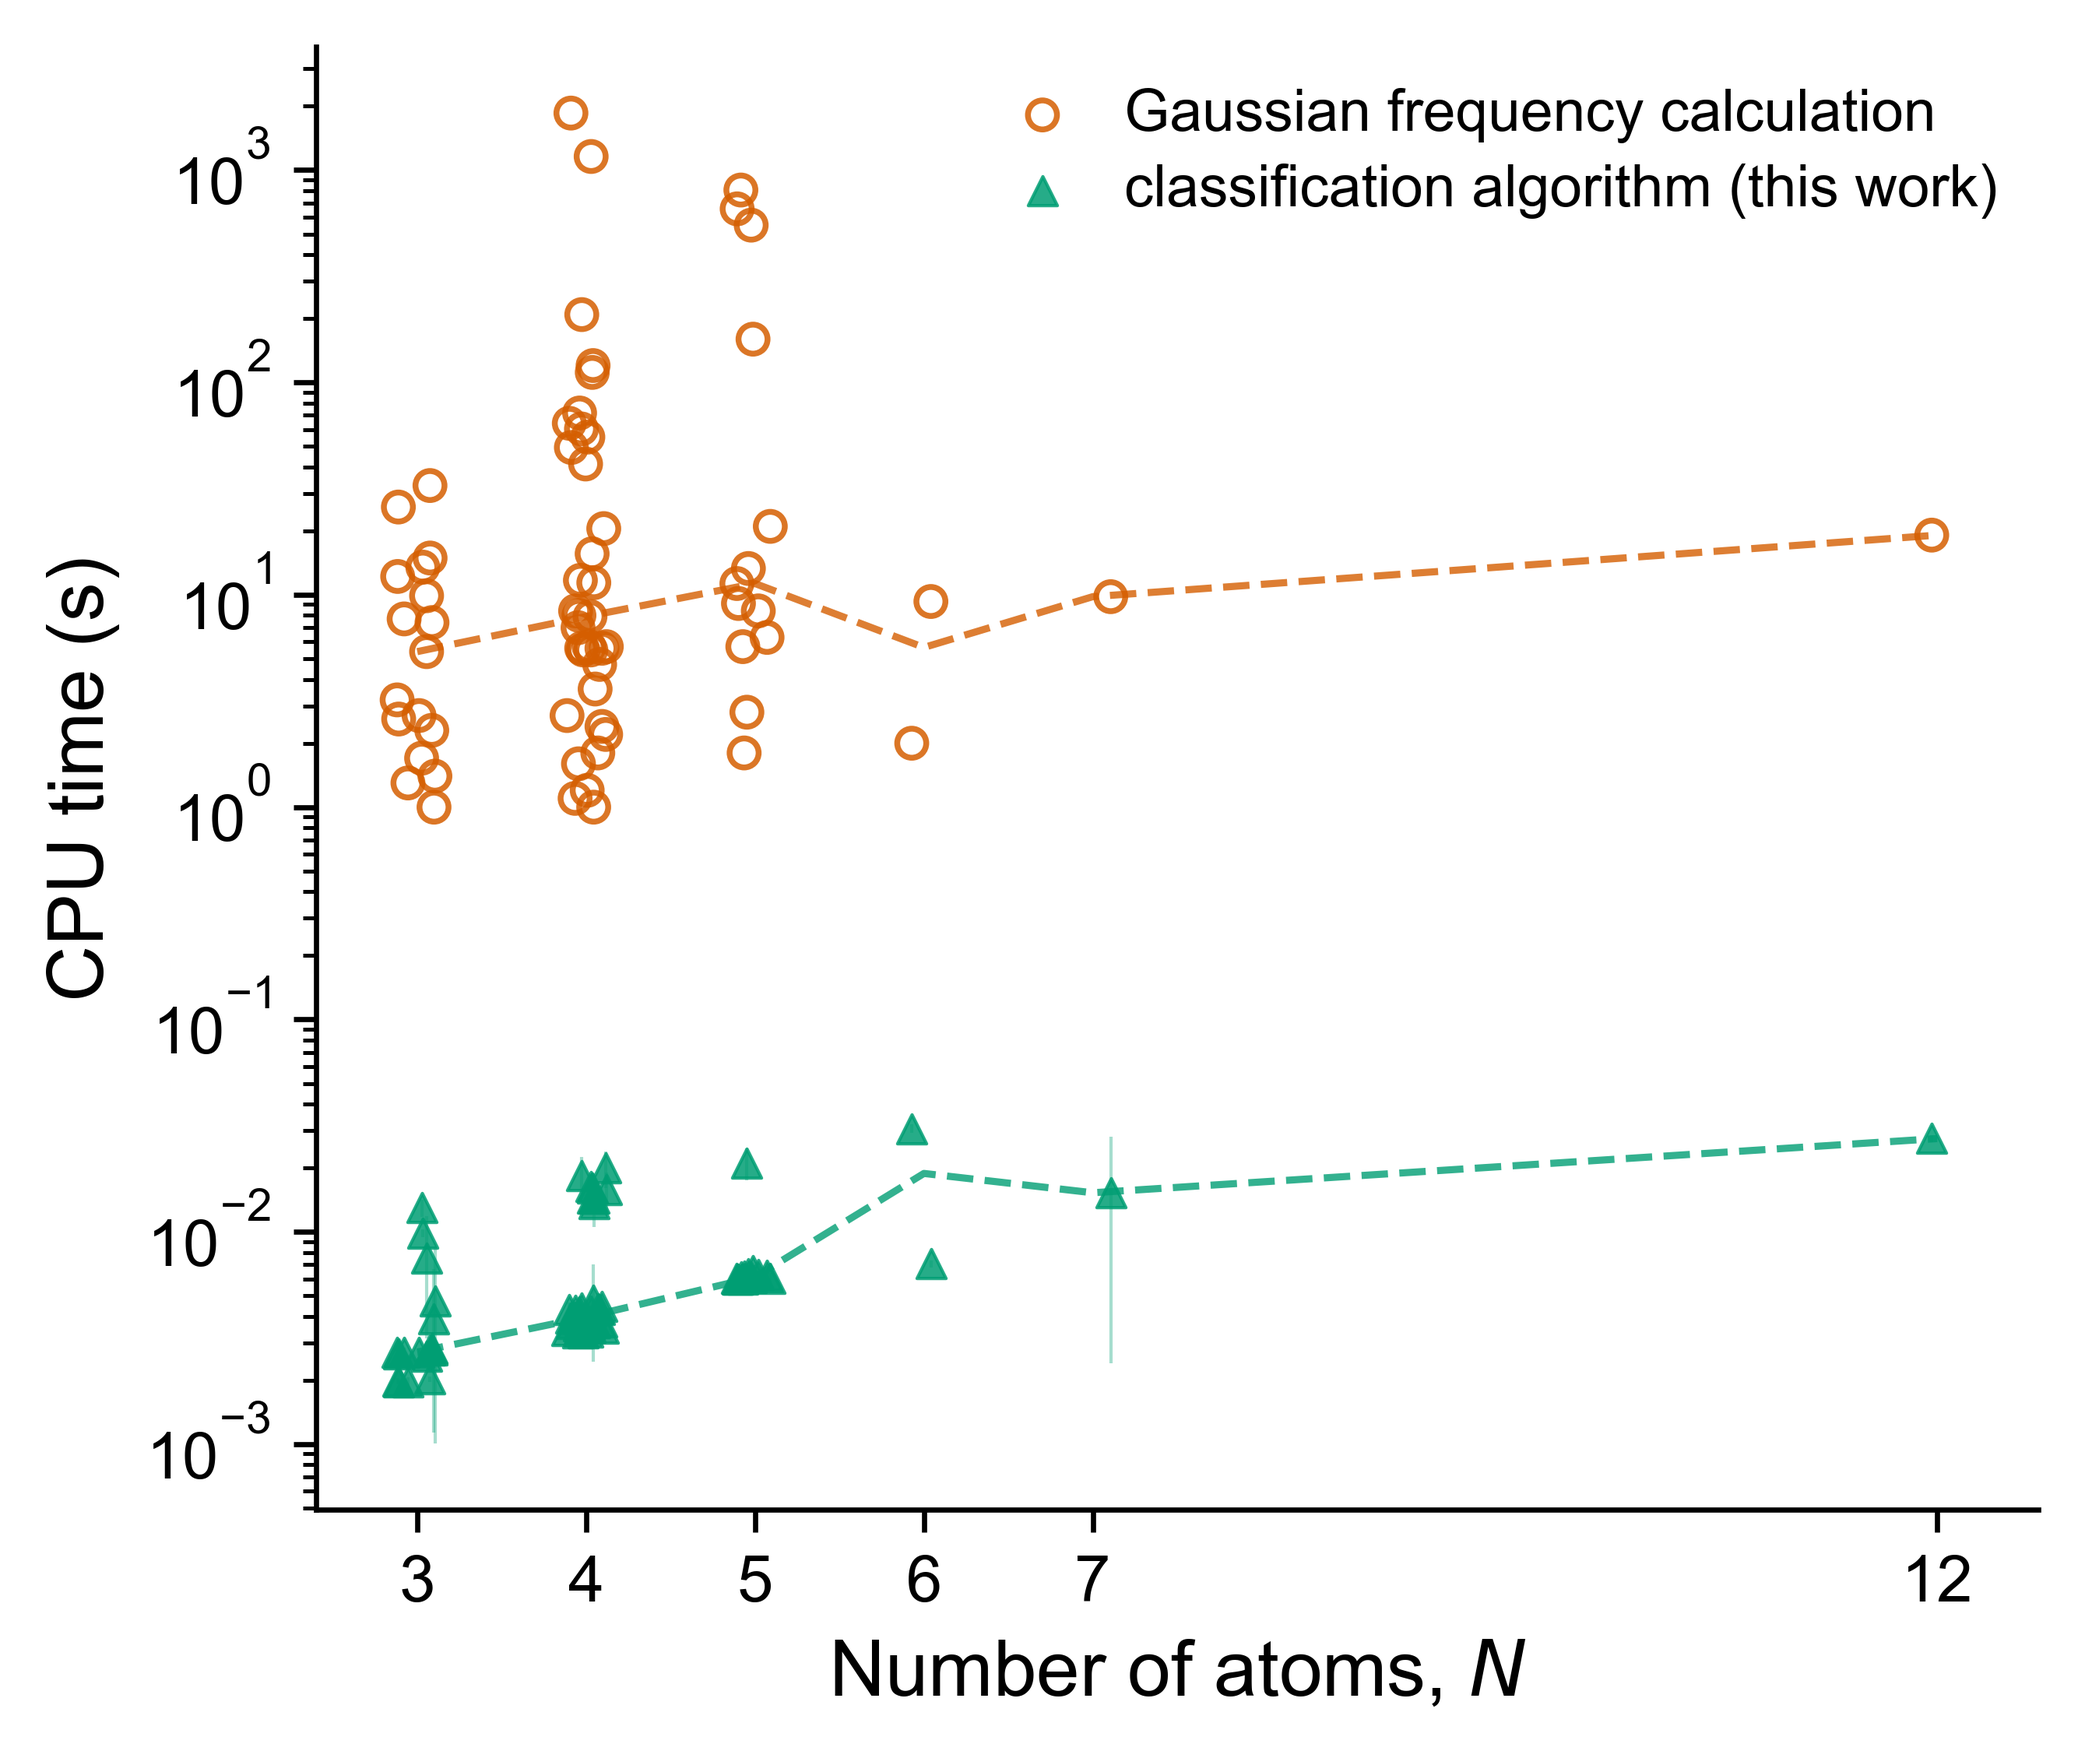
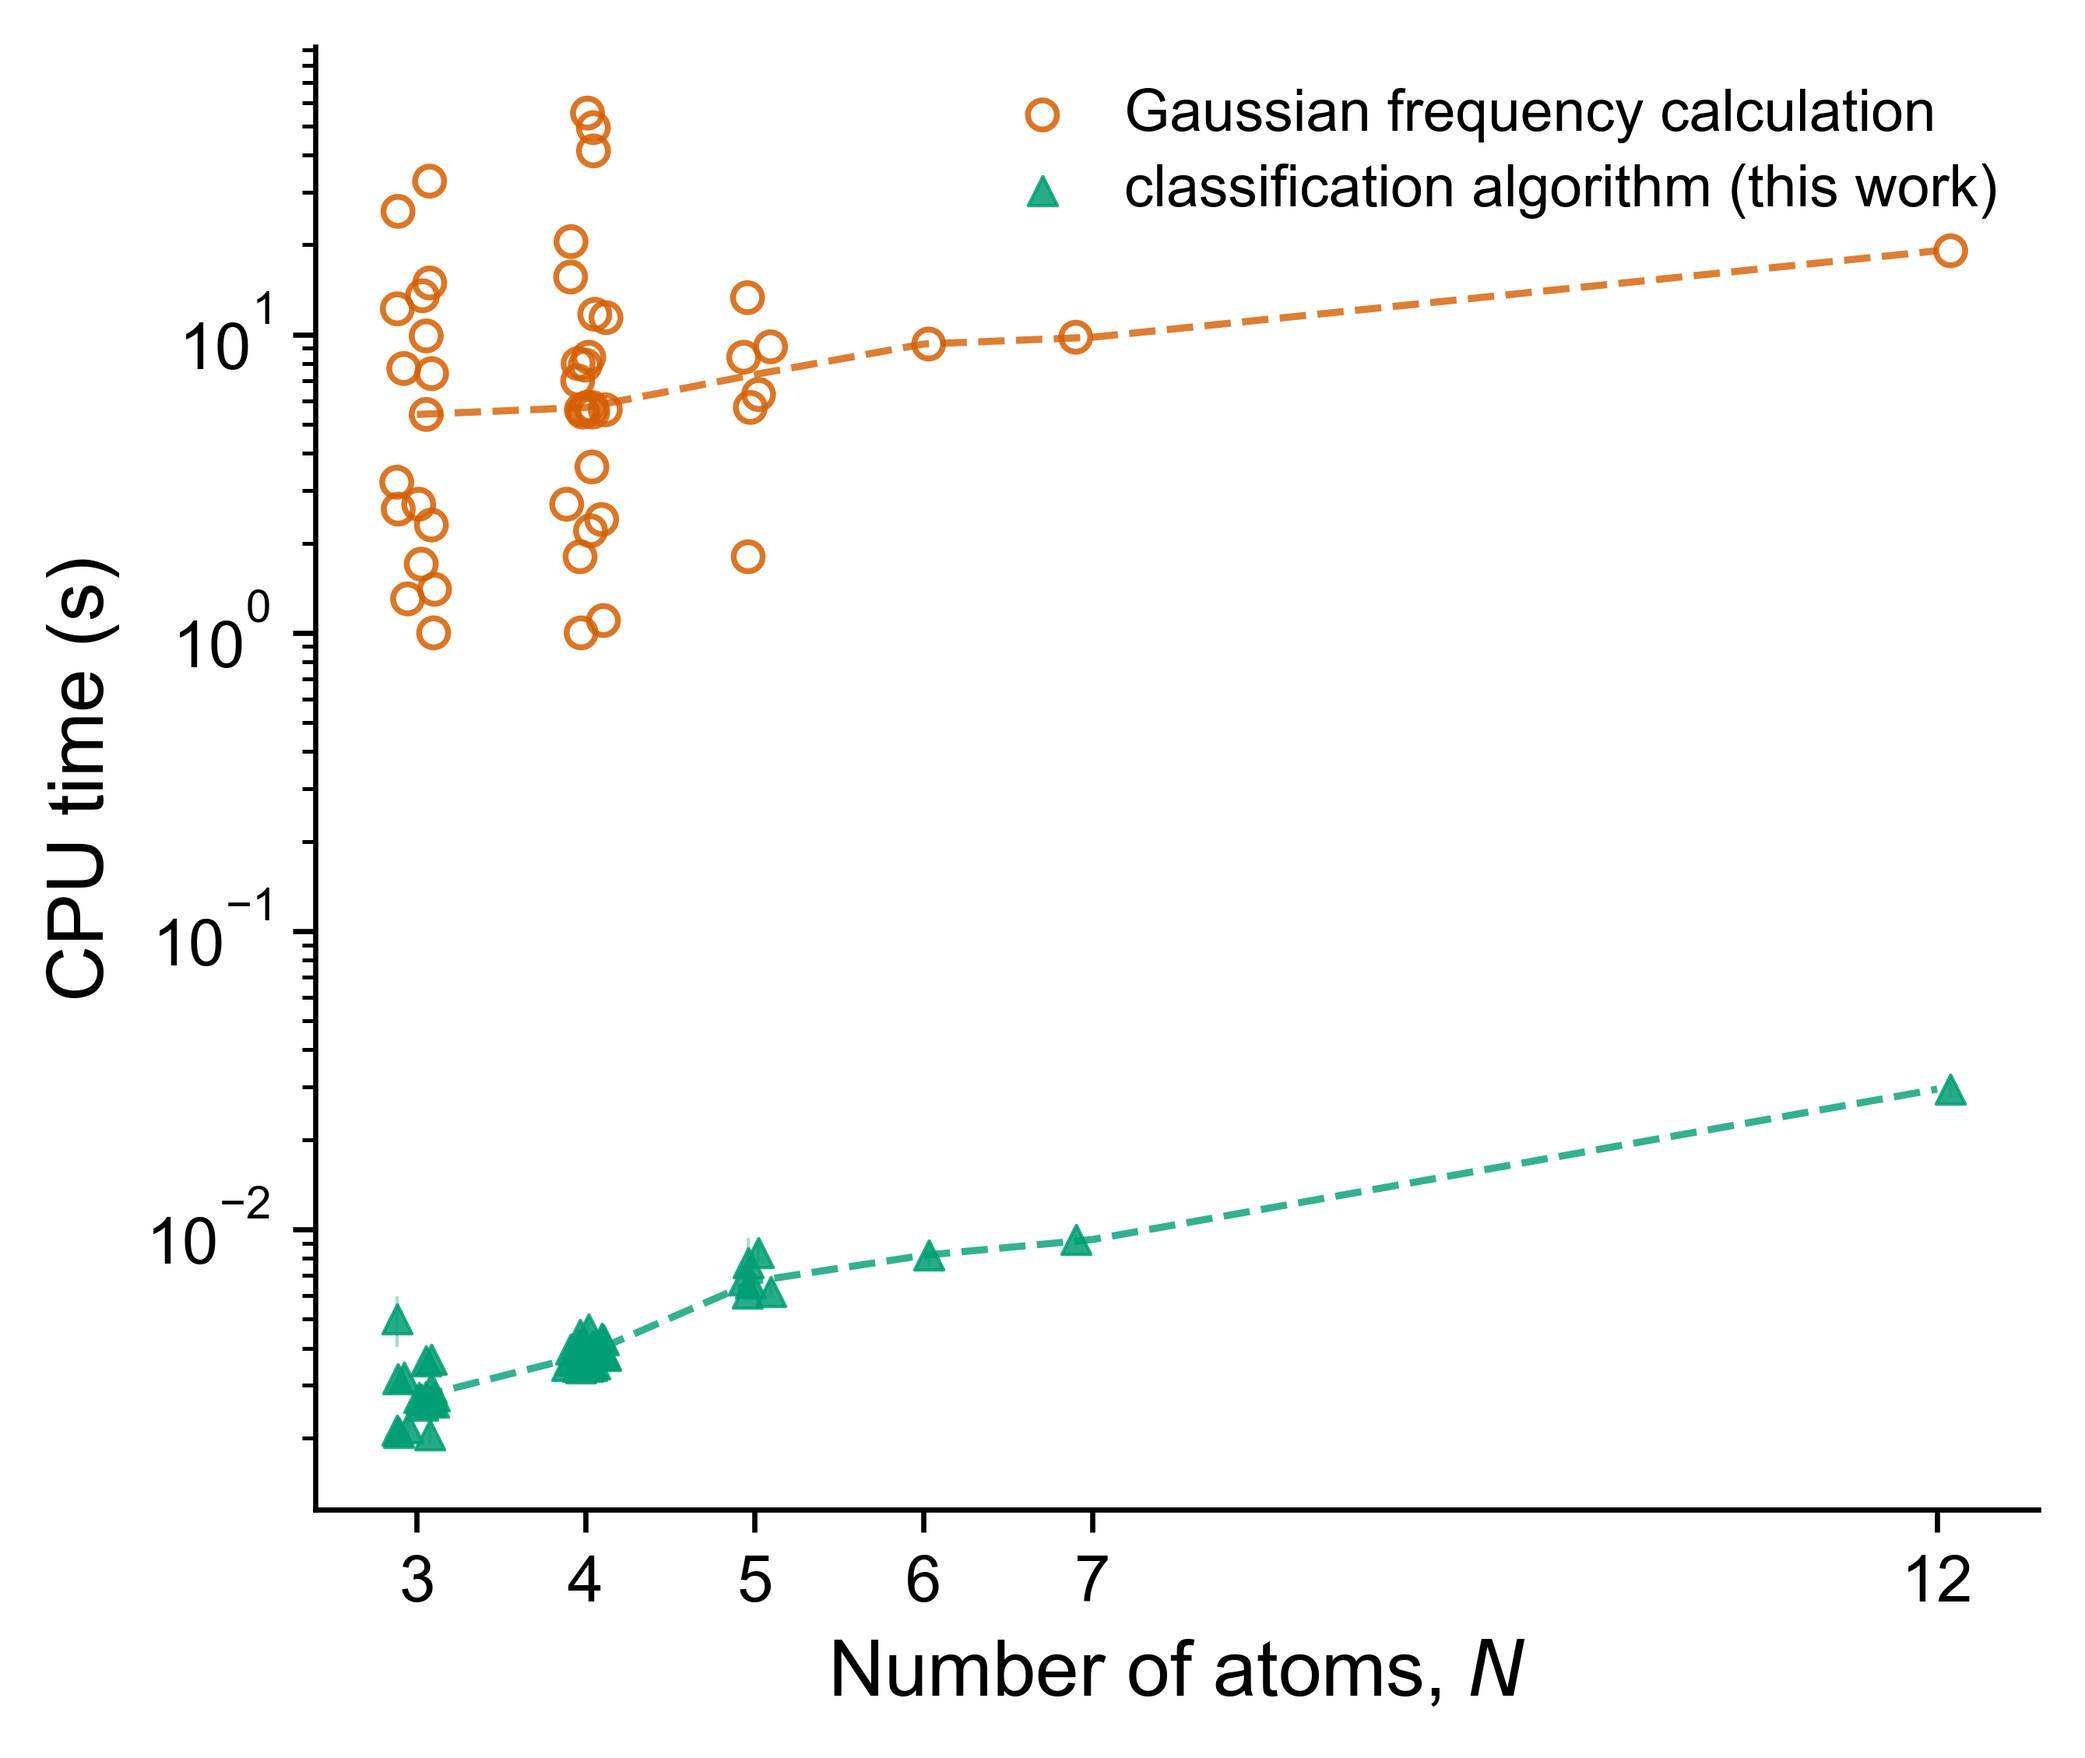
Filter fig:cputime to MP2/3-21G subset (50 of 68 molecules)
plot_cpu_time_benchmark() now filters to mp2_321g==True before plotting or
computing summary stats, using the mp2_321g/method_basis columns just joined
onto cpu_time_benchmark.csv. Controls for the confound where 18 molecules ran
at a different Gaussian method/basis (e.g. AsBr3 at MP2/6-311G, the single
largest CPU-time point in the unfiltered set at 1855s). Regenerated
fig_cputime.pdf/.png and the returned summary dict (now also reports
n_excluded_non_mp2_321g and per-series min/max molecule + median) from the
filtered 50-point subset only.

diff --git a/src/figures.py b/src/figures.py
@@ -1760,8 +1760,21 @@ def plot_cpu_time_benchmark(
     """Build fig:cputime: empirical CPU time vs. atom count N, log-scale,
     for the classification algorithm (this framework) against the Gaussian
     frequency-calculation step that supplies its input -- one point per
-    hydride-library molecule (69 molecules, N=3..12; benzene/C6H6 at N=12 is
-    the single largest case).
+    hydride-library molecule, restricted to the MP2/3-21G subset
+    (``mp2_321g == True``, 50 of 68 molecules, N=3..12; benzene/C6H6 at N=12
+    is the single largest case in this filtered subset).
+
+    FILTERING (added 2026-08-01): ``cpu_time_benchmark.csv`` now carries
+    ``mp2_321g``/``method_basis`` joined from ``data/mol_list_method.csv`` --
+    18 of the 68 library molecules were run at a different Gaussian
+    method/basis (e.g. MP2/6-311G) for SCF-convergence or symmetry reasons,
+    confounding a bare "CPU time vs. N" reading with "CPU time vs. method".
+    This function filters to ``mp2_321g == True`` BEFORE plotting or
+    computing summary statistics, so both the figure and every number in the
+    returned summary describe the controlled, single-method/basis subset
+    only. The excluded 18 (including AsBr3/MP2-6-311G, the single largest
+    CPU-time point in the full 68-molecule set at 1855 s) are NOT shown and
+    NOT folded into any statistic here -- see ``n_excluded_non_mp2_321g``.
 
     ``gaussian_freq_cpu_s`` is Gaussian's frequency-only CPU time
     (optimization excluded, verified via the Link1 job-step split in each
@@ -1773,8 +1786,8 @@ def plot_cpu_time_benchmark(
     for visual effect).
 
     Small reproducible x-jitter (fixed seed) separates the many molecules
-    sharing the same integer N (e.g. 17 molecules at N=4) -- N itself is not
-    perturbed in the underlying data, only the plotted x-position.
+    sharing the same integer N -- N itself is not perturbed in the
+    underlying data, only the plotted x-position.
 
     Not one of the 6 named JCC figures in this module's existing scope (see
     module docstring / IMPLEMENTATION_PLAN.md); added because the
@@ -1783,7 +1796,10 @@ def plot_cpu_time_benchmark(
     wiring are a separate step -- this function only builds the artifact.
     """
     _style()
-    df = pd.read_csv(benchmark_csv)
+    df_all = pd.read_csv(benchmark_csv)
+    n_total = len(df_all)
+    df = df_all[df_all["mp2_321g"] == True].copy()  # noqa: E712 -- explicit bool filter, not truthiness
+    n_excluded = n_total - len(df)
     df = df.sort_values(["N", "molecule"]).reset_index(drop=True)
     ratio = df["gaussian_freq_cpu_s"] / df["classifier_cpu_s"]
 
@@ -1833,15 +1849,27 @@ def plot_cpu_time_benchmark(
     pdf_path, png_path = _savefig(fig, out_dir, label)
     plt.close(fig)
 
+    gaussian_min_idx = df["gaussian_freq_cpu_s"].idxmin()
+    gaussian_max_idx = df["gaussian_freq_cpu_s"].idxmax()
+    classifier_min_idx = df["classifier_cpu_s"].idxmin()
+    classifier_max_idx = df["classifier_cpu_s"].idxmax()
+
     summary = {
         "pdf": pdf_path, "png": png_path,
         "n_molecules": len(df),
+        "n_excluded_non_mp2_321g": int(n_excluded),
         "N_range": (int(df["N"].min()), int(df["N"].max())),
         "molecules_per_N": n_by_N.to_dict(),
         "gaussian_cpu_s_range": (float(df["gaussian_freq_cpu_s"].min()),
                                   float(df["gaussian_freq_cpu_s"].max())),
+        "gaussian_cpu_s_min_molecule": str(df.loc[gaussian_min_idx, "molecule"]),
+        "gaussian_cpu_s_max_molecule": str(df.loc[gaussian_max_idx, "molecule"]),
+        "gaussian_cpu_s_median": float(df["gaussian_freq_cpu_s"].median()),
         "classifier_cpu_s_range": (float(df["classifier_cpu_s"].min()),
                                     float(df["classifier_cpu_s"].max())),
+        "classifier_cpu_s_min_molecule": str(df.loc[classifier_min_idx, "molecule"]),
+        "classifier_cpu_s_max_molecule": str(df.loc[classifier_max_idx, "molecule"]),
+        "classifier_cpu_s_median": float(df["classifier_cpu_s"].median()),
         "ratio_gaussian_over_classifier": {
             "min": float(ratio.min()), "min_molecule": str(df.loc[ratio.idxmin(), "molecule"]),
             "median": float(ratio.median()),
@@ -1851,7 +1879,11 @@ def plot_cpu_time_benchmark(
         "gaussian_median_cpu_s_by_N": med["gaussian_freq_cpu_s"].to_dict(),
         "framing": ("empirical replacement/companion for the theoretical "
                     "Big-O 'Computational cost' section (tab:cost); PROPOSED "
-                    "label fig:cputime, not yet wired into the .tex."),
+                    "label fig:cputime, not yet wired into the .tex. Filtered "
+                    "to mp2_321g==True (2026-08-01) -- excludes "
+                    f"{n_excluded} molecules run at a different Gaussian "
+                    "method/basis, to avoid confounding CPU-time-vs-N with "
+                    "CPU-time-vs-method."),
     }
     return summary
 
